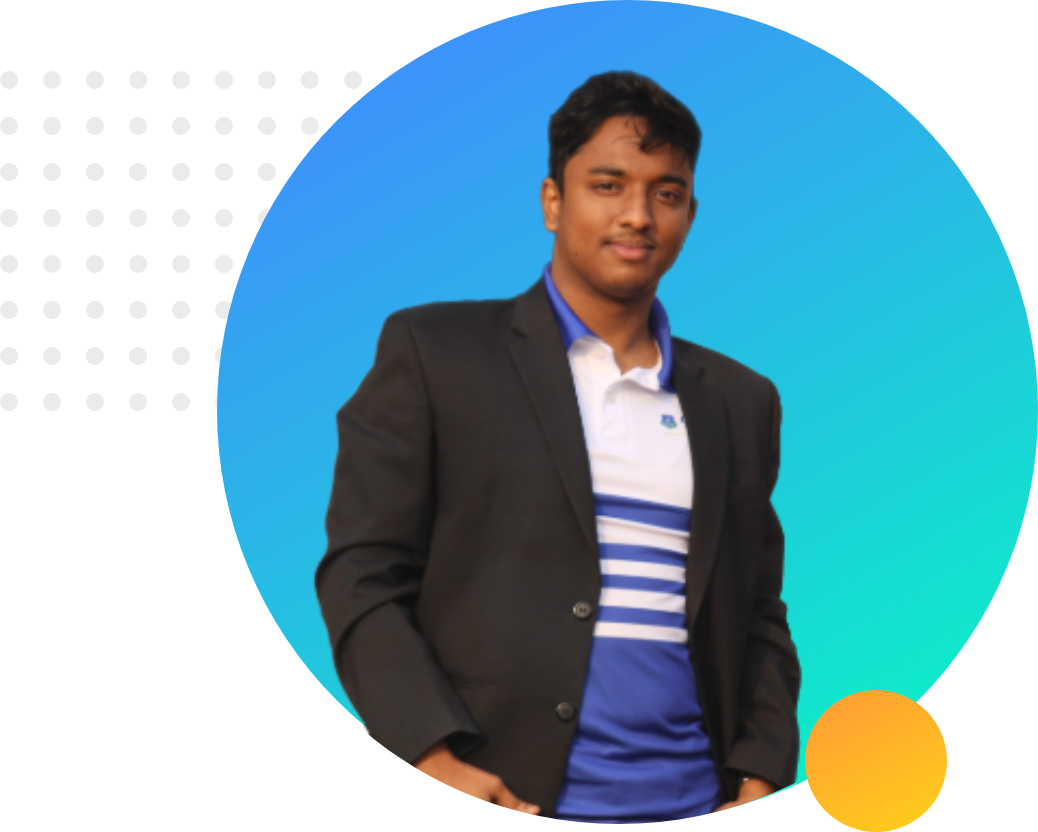
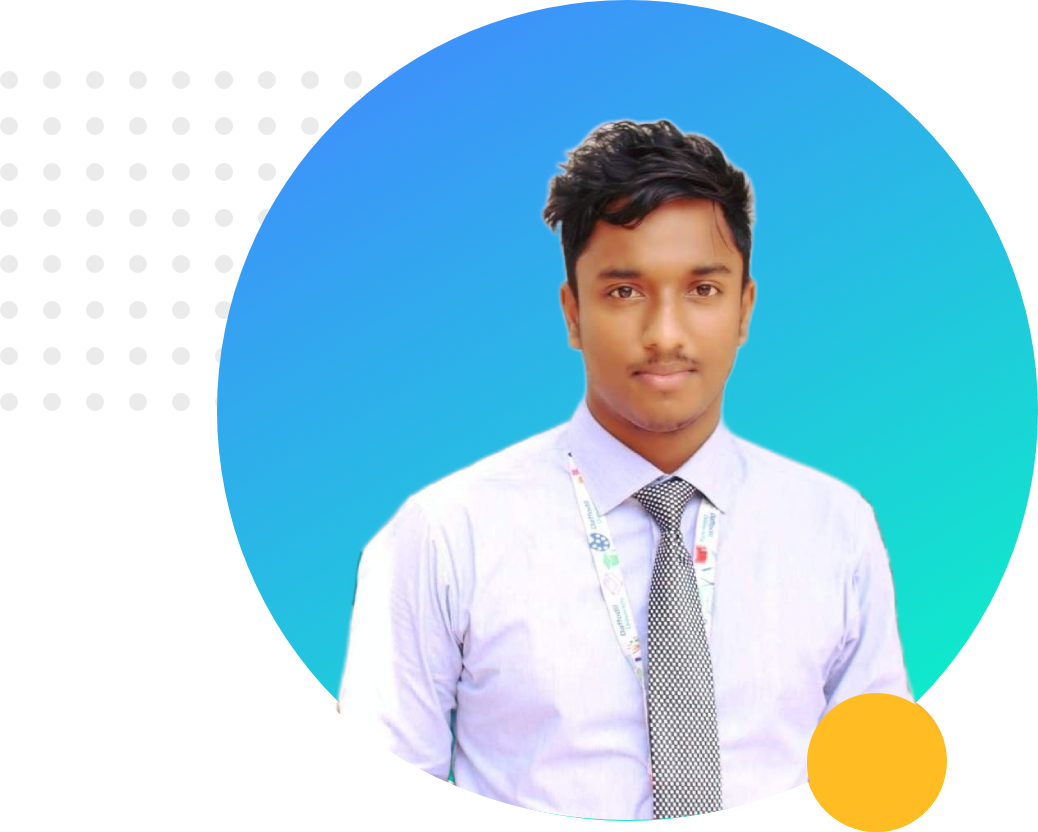
second section done

diff --git a/index.html b/index.html
@@ -19,12 +19,27 @@
 
             <p>I’m a web developer. I spend my whole day, practically every day, experimenting with HTML, CSS, and JavaScript; dabbling with Python and Ruby; and inhaling a wide variety of potentially useless information through a few hundred RSS feeds. I build websites that delight and inform. I do it well.</p>
 
-            <a class="hire-btn" target="_blank" href="https://www.linkedin.com/in/muradrahmanmr/">Hire me</a>
+            <a class="link-btn" target="_blank" href="https://www.linkedin.com/in/muradrahmanmr/">Hire me</a>
         </div>
         <div class="half-width">
             <img src="images/murad1.png" alt="">
         </div>
         
+    </section>
+
+    <section class="dream-area">
+        <div class="half-width">
+            <img src="images/murad2.png" alt="">
+        </div>
+
+        <div class="half-width">
+            <h2>Dream Big</h2>
+            <h3>Become a Web Developer</h3>
+            <p>I’m a web developer. I spend my whole day, practically every day, experimenting with HTML, CSS, and JavaScript; dabbling with Python and Ruby; and inhaling a wide variety of potentially useless information through a few hundred RSS feeds. I build websites that delight and inform. I do it well.</p>
+
+            <a class="link-btn" target="_blank" href="https://docs.google.com/document/d/1ndhbiOfQIczQ_yHhR_htIa-Jj06L66F6YH4GDd7sJM0/edit#heading=h.1hxcpsc1hco2">Download Resume</a>
+        </div>
+
     </section>
     
 </body>

diff --git a/style.css b/style.css
@@ -12,7 +12,7 @@ h1{
 .half-width{
     width: 40%;
     margin-left: 5%;
-    padding: 2%;
+    padding-left: 2%;
     float: left;
 }
 
@@ -29,10 +29,10 @@ section{
     height: 500px;
 }
 p{
-    color: darkgray;
+    color: dimgray;
 }
 
-.hire-btn{
+.link-btn{
     text-decoration: none;
     background: linear-gradient( 45deg, lightSalmon, tomato);
     border-radius: 5px;
@@ -40,3 +40,12 @@ p{
     color: white;
     font-weight: 700;
     }
+h2{
+    font-size: 40px;
+}
+
+.dream-area{
+    background-image: url("images/dream-bg.png");
+    background-repeat: no-repeat;
+    background-position: right;
+}
